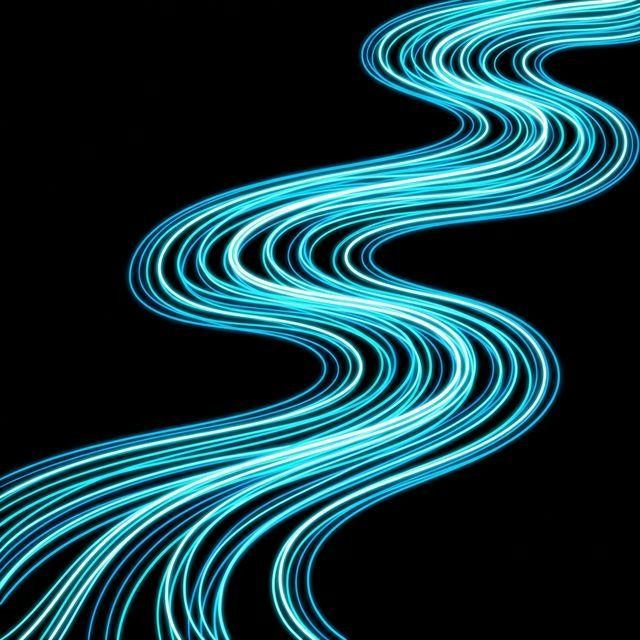
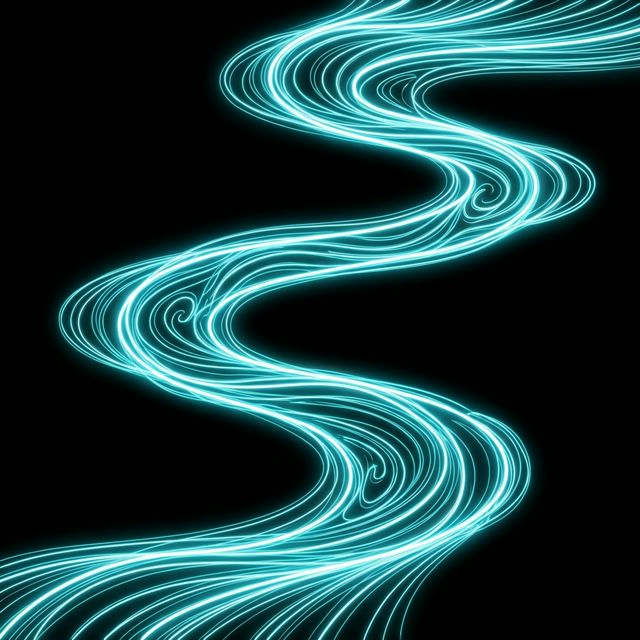
fix:背景図がズレたところを合わせる

diff --git a/src/data/constellationData.js b/src/data/constellationData.js
@@ -394,76 +394,5 @@ export const CONSTELLATIONS = [
       [12, 13],
     ],
   },
-  {
-    id: "eridanus",
-    name: "エリダヌス座",
-    starCount: 26,
-    completedDate: null,
-    filledStars: 0,
-    description:
-      "エリダヌス座はプトレマイオスの48星座のひとつにも挙げられていて、全天で6番目に大きい星座です。\nしかし、古くは更に大きい星座で、現在のろ座も、エリダヌス座の一部とされていました。\n\nこのエリダヌス座は、伝説の川・エリダヌス川の形が描かれていますが、エリダヌス座のモデルは、イタリア北部を流れるポー川だと言われています。\nエリダヌス座はオリオン座の１等星・リゲルのすぐ北西からはじまり、南の地平線へと長く延びている星座で、大きな川の姿で描かれています。",
 
-    features:
-      "エリダヌス座の探し方は、このリゲルがポイントになりますが、オリオン座はもちろん、リゲルは青白く輝いている１等星なので、すぐに見つけることができると思います。\n\nこのリゲルのすぐ近くからエリダヌス座ははじまって、その南端には、全天21ある1等星のひとつであるα星・アケルナルが輝いています。\nしかし、エリダヌス座は南の空の低いところに見えるので、日本の多くの地域では星座の一部が地平線に隠れてしまい、残念ながら全体の姿を見ることができません。",
-
-    history:
-      "エリダヌス座は紀元前300年頃には誕生していた古い星座で、ギリシア神話にもその物語が伝えられています。\n\nギリシャ神話では、太陽の神・アポロンの息子・パエトン(ファエトン)が、父から借りた天を駆ける日輪の馬車を走らせようとします。\nしかし、日輪の馬車はパエトンの言うことを聞かず、暴れて天空を暴走してしまいます。\n\nその様子を見た大神・ゼウスは、暴走を止めるために馬車に向かって稲妻を放ちます。\n稲妻に打たれた馬車はパエトンを乗せたまま下界に落ちていきますが、この馬車が落ちたところがエリダヌス川だと伝えられています。",
-
-    starPositions: [
-      { x: 0.1, y: 0.1 },
-      { x: 0.2, y: 0.15 },
-      { x: 0.25, y: 0.25 },
-      { x: 0.15, y: 0.35 },
-      { x: 0.1, y: 0.45 },
-      { x: 0.2, y: 0.55 },
-      { x: 0.3, y: 0.5 },
-      { x: 0.4, y: 0.45 },
-      { x: 0.5, y: 0.55 },
-      { x: 0.45, y: 0.65 },
-      { x: 0.35, y: 0.7 },
-      { x: 0.25, y: 0.75 },
-      { x: 0.3, y: 0.85 },
-      { x: 0.4, y: 0.9 },
-      { x: 0.5, y: 0.85 },
-      { x: 0.6, y: 0.8 },
-      { x: 0.7, y: 0.75 },
-      { x: 0.8, y: 0.85 },
-      { x: 0.9, y: 0.9 },
-      { x: 0.95, y: 0.8 },
-      { x: 0.85, y: 0.7 },
-      { x: 0.75, y: 0.65 },
-      { x: 0.8, y: 0.55 },
-      { x: 0.9, y: 0.45 },
-      { x: 0.85, y: 0.35 },
-      { x: 0.75, y: 0.25 },
-    ],
-
-    lines: [
-      [0, 1],
-      [1, 2],
-      [2, 3],
-      [3, 4],
-      [4, 5],
-      [5, 6],
-      [6, 7],
-      [7, 8],
-      [8, 9],
-      [9, 10],
-      [10, 11],
-      [11, 12],
-      [12, 13],
-      [13, 14],
-      [14, 15],
-      [15, 16],
-      [16, 17],
-      [17, 18],
-      [18, 19],
-      [19, 20],
-      [20, 21],
-      [21, 22],
-      [22, 23],
-      [23, 24],
-      [24, 25],
-    ],
-  },
 ];

diff --git a/src/components/ui/UI.jsx b/src/components/ui/UI.jsx
@@ -305,9 +305,8 @@ export const UI = ({ onSend, onStarClick }) => {
               setStarOpen(false);
               setConstellationModalOpen(false);
             }}
-            className={`w-10 h-10 rounded-full bg-white/10 backdrop-blur-md border border-white/20 flex items-center justify-center shadow-lg shadow-purple-900/20 transition-all duration-300 ${
-              cooldown ? "opacity-40 cursor-not-allowed" : "hover:bg-white/20"
-            }`}
+            className={`w-10 h-10 rounded-full bg-white/10 backdrop-blur-md border border-white/20 flex items-center justify-center shadow-lg shadow-purple-900/20 transition-all duration-300 ${cooldown ? "opacity-40 cursor-not-allowed" : "hover:bg-white/20"
+              }`}
             title={cooldown ? `冷却中: ${cooldownTime}` : "日記を書く"}
           >
             {/* ロケットアイコン (Rocket Icon) */}
@@ -671,7 +670,6 @@ export const UI = ({ onSend, onStarClick }) => {
                   <option value="lepus">兎座</option>
                   <option value="bootes">うしかい座</option>
                   <option value="hydra">ウミヘビ座</option>
-                  <option value="eridanus">エリダヌス座</option>
                   <option value="andromeda">アンドロメダ座</option>
                 </select>
                 <button
@@ -778,9 +776,8 @@ export const UI = ({ onSend, onStarClick }) => {
               <div className="flex flex-col md:flex-row md:gap-8">
                 {/* 左: スライダー質問リスト（スマホステップ0 / PC常時） */}
                 <div
-                  className={`flex-1 space-y-6 min-w-0 ${
-                    mobileDiaryStep === 1 ? "hidden md:block" : "block"
-                  }`}
+                  className={`flex-1 space-y-6 min-w-0 ${mobileDiaryStep === 1 ? "hidden md:block" : "block"
+                    }`}
                 >
                   {MOOD_QUESTIONS.map((q) => (
                     <div
@@ -846,9 +843,8 @@ export const UI = ({ onSend, onStarClick }) => {
 
                 {/* 右: 今日のいいこと入力 + 打ち上げボタン（スマホステップ1 / PC常時） */}
                 <div
-                  className={`flex flex-1 flex-col gap-5 md:gap-4 ${
-                    mobileDiaryStep === 0 ? "hidden md:flex" : "flex"
-                  }`}
+                  className={`flex flex-1 flex-col gap-5 md:gap-4 ${mobileDiaryStep === 0 ? "hidden md:flex" : "flex"
+                    }`}
                 >
                   <div className="space-y-2">
                     <label className="text-white/90 text-sm font-sans tracking-wide block">

diff --git a/src/components/canvas/ConstellationLines.jsx b/src/components/canvas/ConstellationLines.jsx
@@ -192,21 +192,20 @@ export function ConstellationLines() {
 
                 const supportedBackgrounds = [
                     "monoceros", "andromeda", "sagittarius", "delphinus",
-                    "indus", "pisces", "lepus", "bootes", "hydra", "eridanus"
+                    "indus", "pisces", "lepus", "bootes", "hydra"
                 ];
 
                 // 画像ごとの位置合わせ用オフセットとサイズ
                 const backgroundConfig = {
                     "monoceros": { offsetX: 2, offsetY: 5, scale: 1 },
                     "andromeda": { offsetX: -7, offsetY: -4, scale: 1.4 },
-                    "sagittarius": { offsetX: 0, offsetY: 5, scale: 1.4 },
-                    "delphinus": { offsetX: 0, offsetY: 0, scale: 1.2 },
-                    "indus": { offsetX: 0, offsetY: 0, scale: 1.2 },
-                    "pisces": { offsetX: 0, offsetY: 0, scale: 1.2 },
-                    "lepus": { offsetX: 0, offsetY: 0, scale: 1.2 },
+                    "sagittarius": { offsetX: 0, offsetY: 5, scale: 1.15 },
+                    "delphinus": { offsetX: -3, offsetY: -7, scale: 1.2 },
+                    "indus": { offsetX: 2, offsetY: 5, scale: 1.2 },
+                    "pisces": { offsetX: 0, offsetY: 7, scale: 1.2 },
+                    "lepus": { offsetX: -2, offsetY: 4, scale: 1 },
                     "bootes": { offsetX: 0, offsetY: 0, scale: 1.2 },
-                    "hydra": { offsetX: 0, offsetY: 0, scale: 1.2 },
-                    "eridanus": { offsetX: 0, offsetY: 0, scale: 1.2 }
+                    "hydra": { offsetX: 0, offsetY: 0, scale: 1.2 }
                 };
 
                 if (supportedBackgrounds.includes(c.id) && activeCount > 0) {
